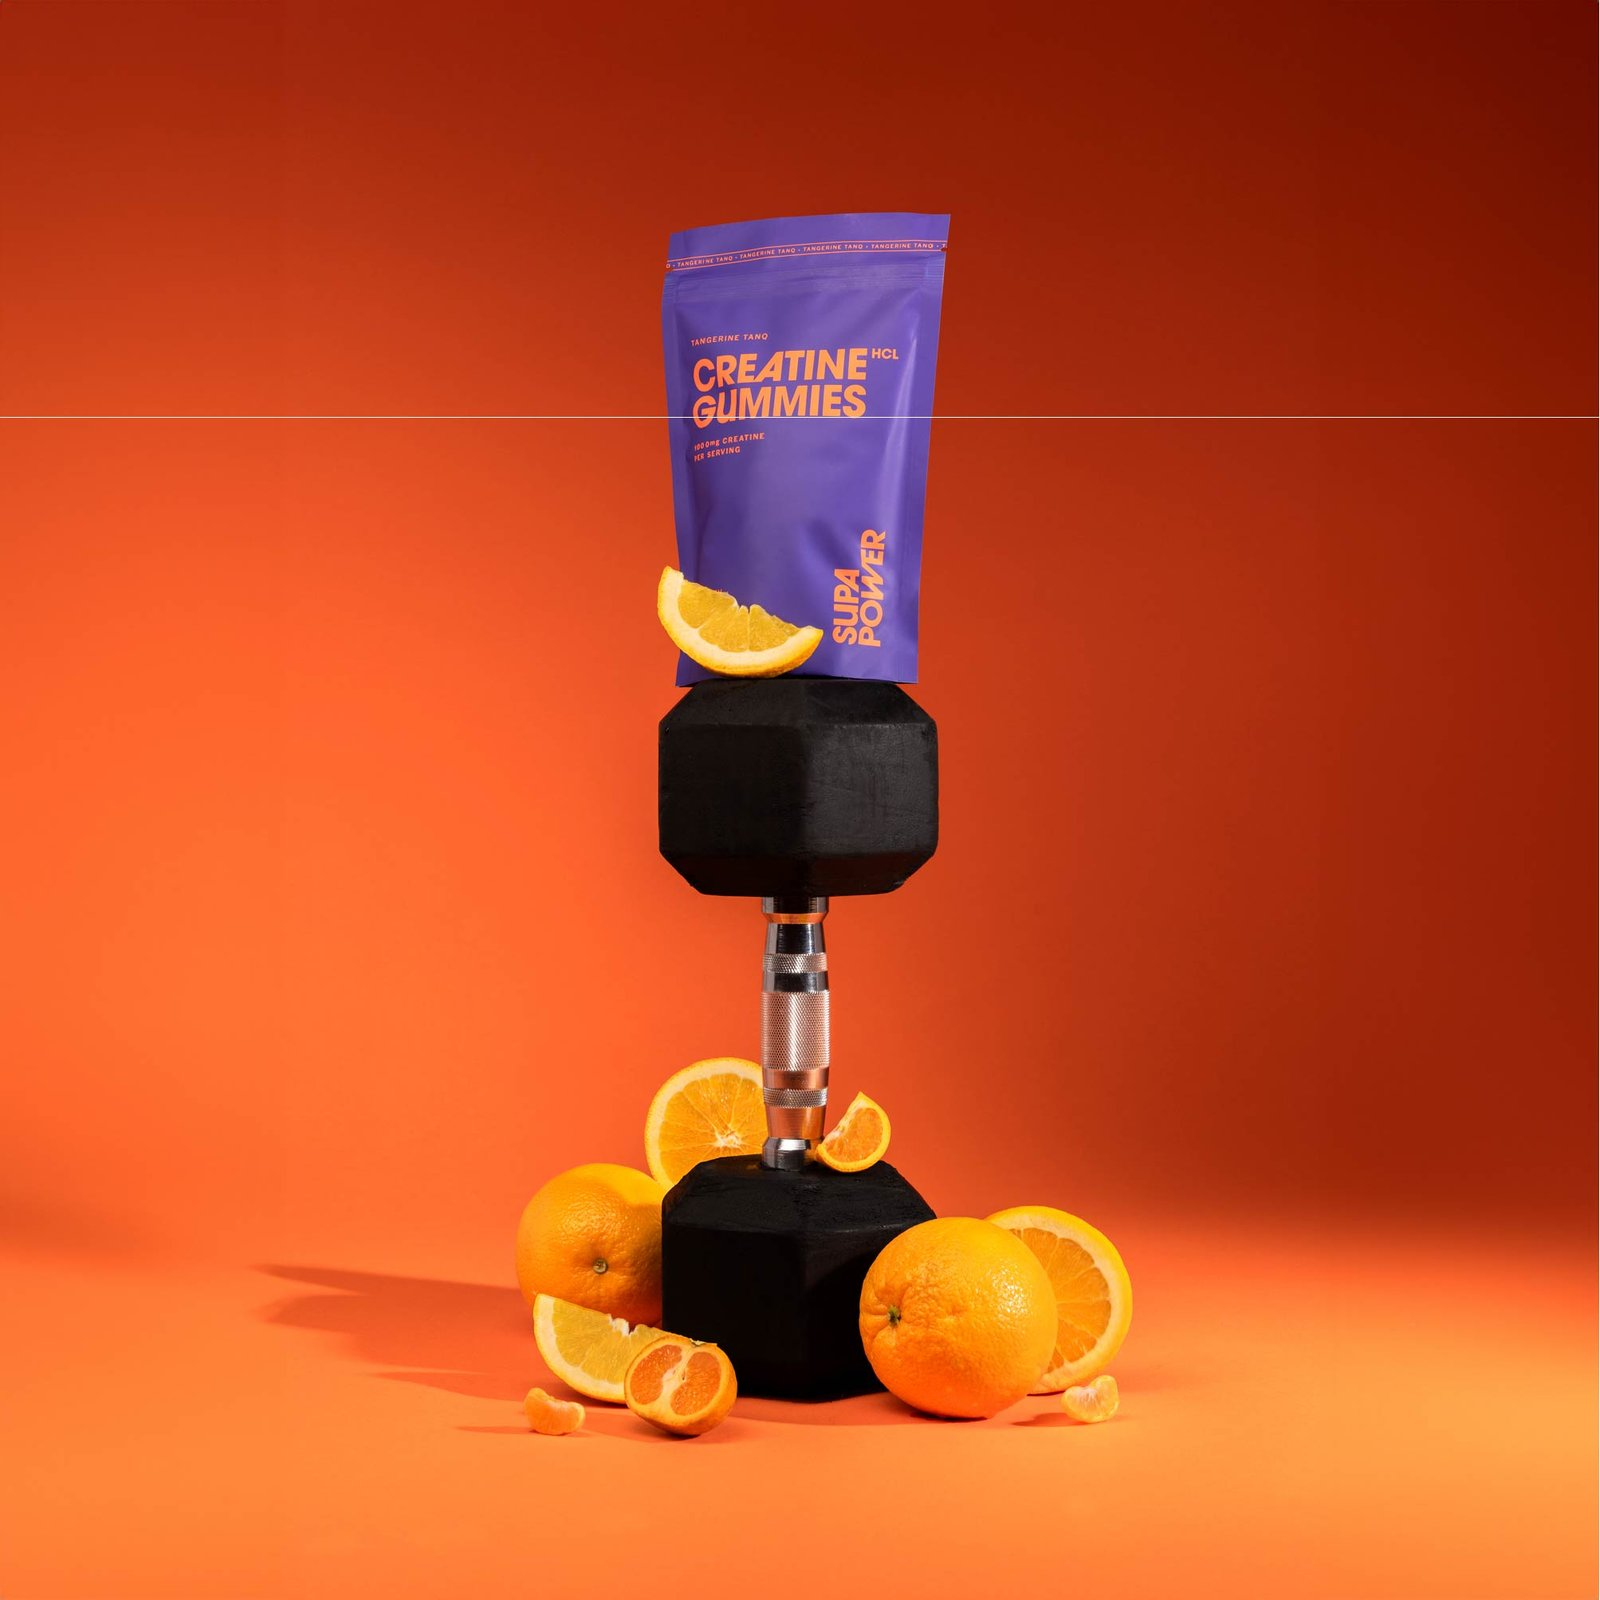
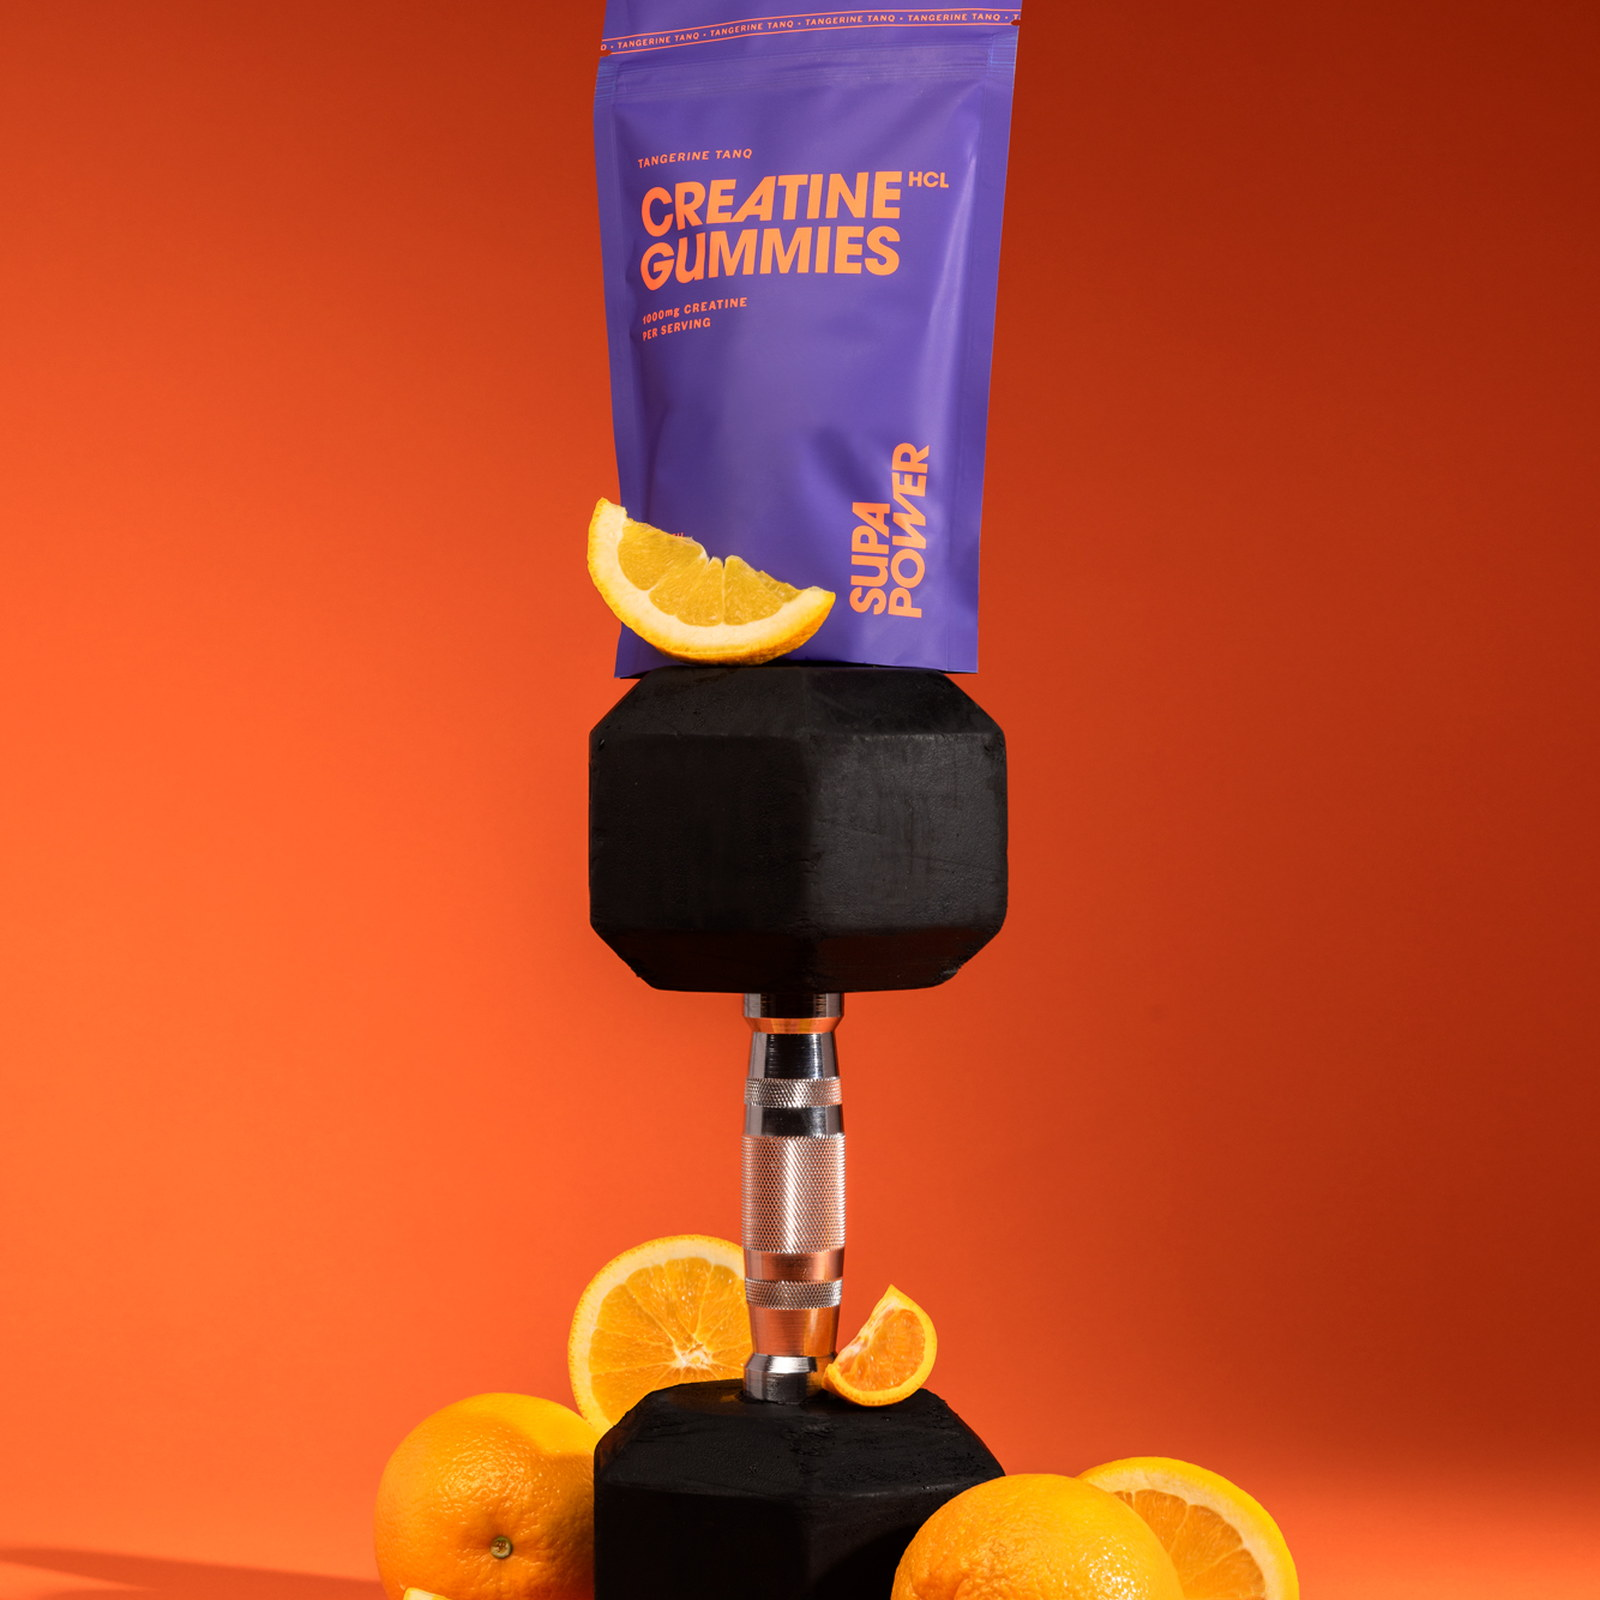
Replace SUPA visuals with clean campaign work

diff --git a/supa-power.html b/supa-power.html
@@ -35,7 +35,7 @@
 <!-- full-bleed case hero -->
 <section class="feature" aria-label="SUPA POWER hero">
   <div class="feature-stage">
-    <img src="assets/img/supa-hero.jpg" alt="SUPA POWER creatine gummies on a kettlebell and watermelon" width="2003" height="2001">
+    <img src="assets/img/supa-home-toss.jpg" alt="SUPA POWER watermelon creatine gummies tossed above a hand" width="2000" height="1334">
     <div class="feature-swatch" style="background:var(--red)"></div>
     <div class="feature-caption">
       <div class="eyebrow">case study</div>
@@ -145,7 +145,7 @@
     <div class="cell"><img src="assets/img/supa-p02.jpg" alt="Creatine gummies on a dumbbell with oranges" loading="lazy" width="1080" height="1353"><div class="fcap">grape · dumbbell press</div></div>
     <div class="cell"><img src="assets/img/supa-p03.jpg" alt="Creatine gummies with cherries and battle rope" loading="lazy" width="1081" height="1353"><div class="fcap">cherry · battle rope</div></div>
     <div class="cell wide"><img src="assets/img/supa-p04.jpg" alt="Hand reaching for creatine gummies" loading="lazy" width="1400" height="1864"><div class="fcap">on set · reach for it</div></div>
-    <div class="cell"><img src="assets/img/supa-p05.jpg" alt="Creatine gummies square crop" loading="lazy" width="1600" height="1600"><div class="fcap">grape · squared up</div></div>
+    <div class="cell"><img src="assets/img/supa-p05.jpg" alt="Tangerine creatine gummies balanced on a dumbbell" loading="lazy" width="1600" height="1600"><div class="fcap">tangerine · dumbbell press</div></div>
   </div>
   <div class="shell"><p class="strip-hint">drag or scroll sideways →</p>
     <p class="body-copy" style="margin-top:1.25rem;color:var(--mute)">Live at

diff --git a/index.html b/index.html
@@ -58,10 +58,10 @@
 
 <section class="feature frames" aria-label="Featured work — SUPA POWER">
   <div class="feature-stage">
-    <img class="on" src="assets/img/supa-hero.jpg" alt="SUPA POWER creatine gummies with a kettlebell and watermelon" width="2003" height="2001">
-    <img src="assets/img/supa-p05.jpg" alt="SUPA POWER grape creatine gummies" loading="lazy" width="1600" height="1600">
-    <img src="assets/img/supa-p03.jpg" alt="SUPA POWER cherry creatine gummies with battle rope" loading="lazy" width="1081" height="1353">
-    <img src="assets/img/supa-p04.jpg" alt="A hand reaching for SUPA POWER creatine gummies" loading="lazy" width="1400" height="1864">
+    <img class="on" src="assets/img/supa-home-strength.jpg" alt="A tattooed arm gripping SUPA POWER tangerine creatine gummies" width="2000" height="1334">
+    <img src="assets/img/supa-home-toss.jpg" alt="SUPA POWER watermelon creatine gummies tossed above a hand" loading="lazy" width="2000" height="1334">
+    <img src="assets/img/supa-home-social.jpg" alt="A selection of SUPA POWER social content for watermelon and cherry creatine gummies" loading="lazy" width="2400" height="1350">
+    <img src="assets/img/supa-home-gym.jpg" alt="SUPA POWER tangerine creatine gummies photographed in a working gym" loading="lazy" width="2000" height="1334">
     <div class="feature-caption">
       <div class="eyebrow">Featured proof / SUPA POWER</div>
       <div class="name">A supplement brand that refuses to whisper.</div>
